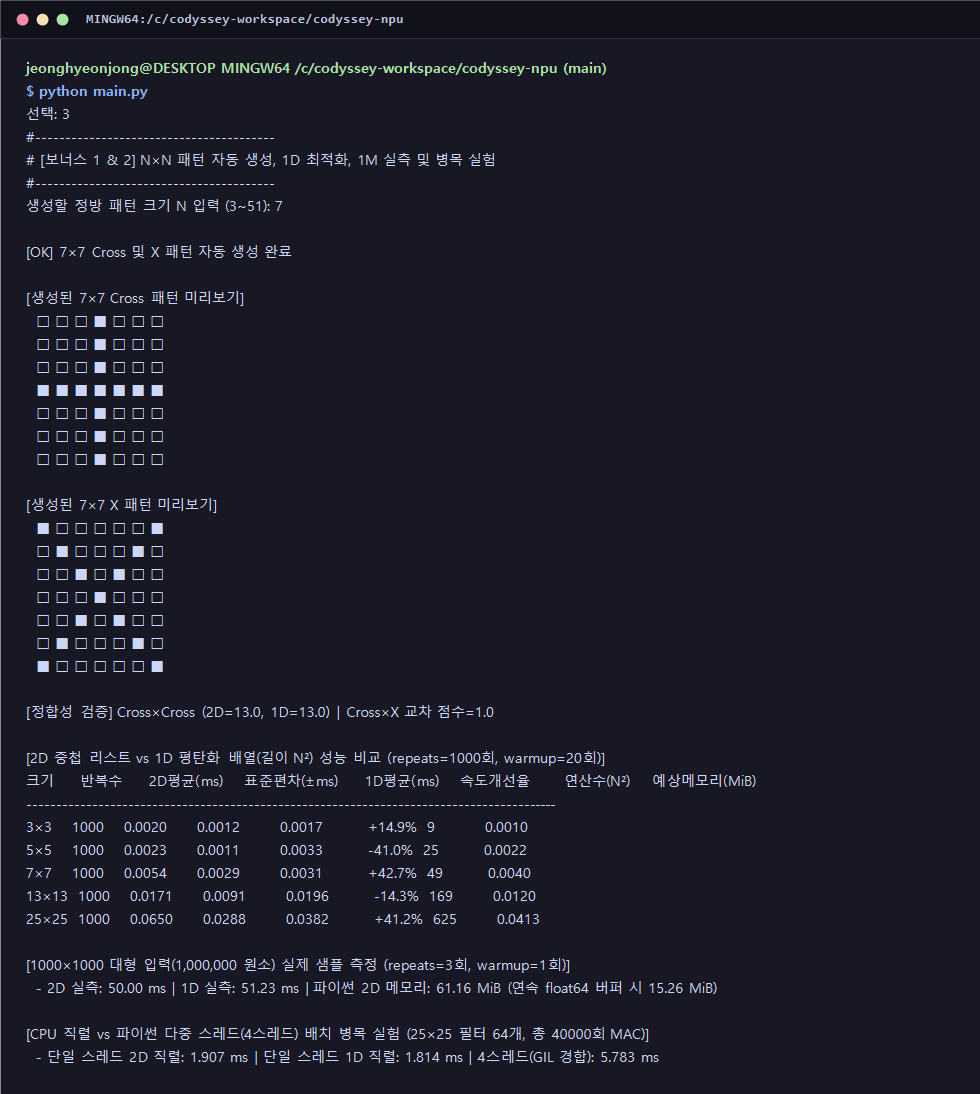
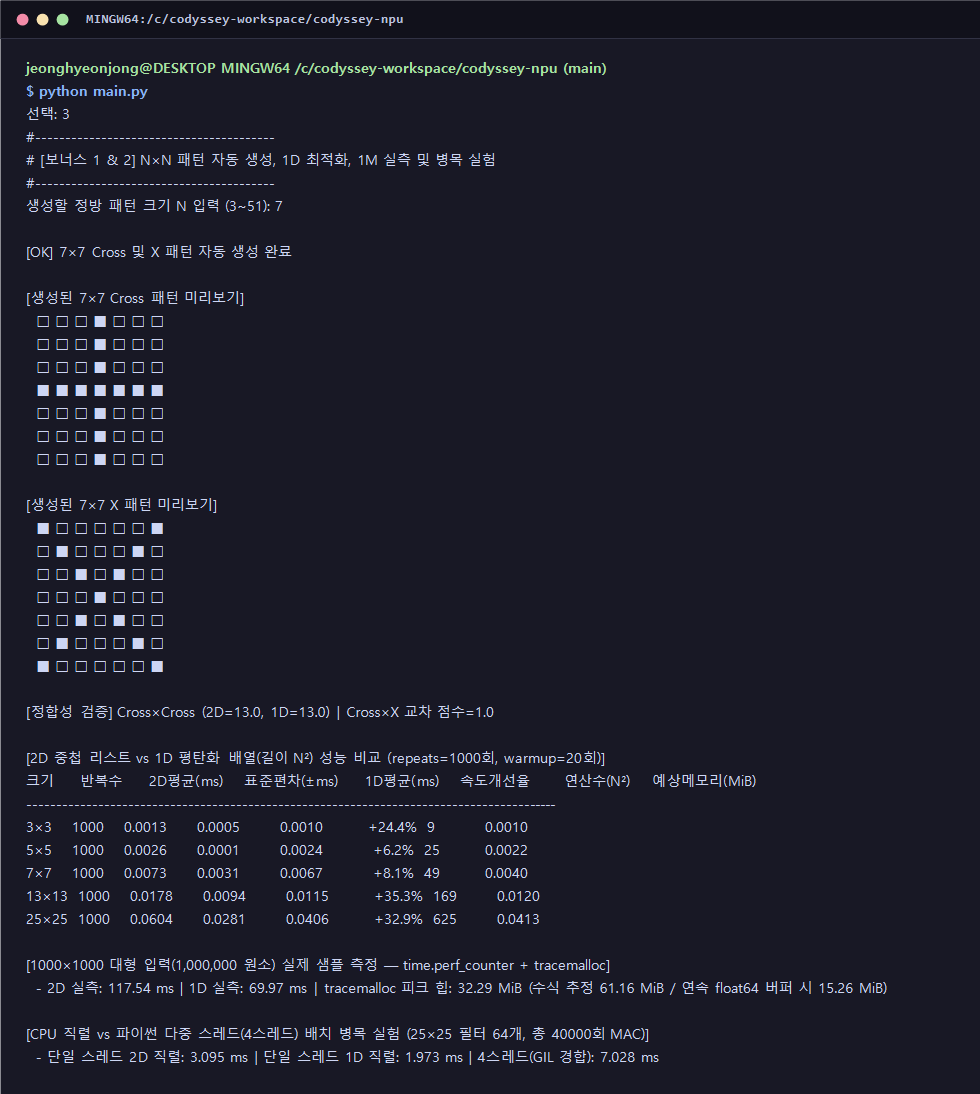
docs: add epsilon tuning workflow, Mode 1 tie recipe, and quantified accelerator speedups

diff --git a/README.md b/README.md
@@ -140,7 +140,9 @@
 | **`1e-4` (중간 확대)** | `UNDECIDED` (`code=tie`) | `UNDECIDED` (**미세 차이 동점화**) | `Cross` (`PASS`) | 소수 다섯째 자리 이하 미세 가중치 차이를 동점으로 둔감화 |
 | **`10.0` (과대)** | `UNDECIDED` (`code=tie`) | `UNDECIDED` (`code=tie`) | `UNDECIDED` (**정상 케이스까지 실패**) | 정상 패턴 차이(`8.8`)까지 모두 동점으로 뭉개져 판별력 상실 |
 
-### 5) 워밍업(`warmup`) 옵션 및 순수 연산 측정 경계
+- **실무 `epsilon` 3단계 튜닝 워크플로우**: ① 최대 행렬 연산수($N^2$)와 가중치 스케일 기준 반올림 오차 상한($\epsilon_{\text{noise}} \approx N^2 \cdot 10^{-16} \cdot \max|F|$) 산출 → ② 데이터셋 내 서로 다른 도형 간 최소 유효 점수 격차($\Delta_{\min}$) 확인 → ③ 두 경계 사이 안전 구간($\epsilon_{\text{noise}} \ll \text{epsilon} \ll \Delta_{\min}$, 기본값 `1e-9`)으로 설정 후 모드 2의 `undecided_rate_pct`로 검증합니다.
+
+### 5) 워밍업(`warmup`) 옵션, I/O 제외 규정 및 `tracemalloc` 메모리 측정 경계
 
 - **워밍업(`warmup=20` 기본값, `0` 이상 옵션 지정 가능)**: Python 3.11+ 적응형 인터프리터의 바이트코드 특수화(PEP 659) 및 CPU 캐시 초기 미스 비용이 첫 표본을 왜곡하지 않도록 `time.perf_counter()` 시작 전에 `warmup` 횟수만큼 사전 예열 루프를 수행합니다.
 - **포함·제외 경계**: 파일·콘솔 I/O, `Matrix2D` 생성 및 `to_flat_list()` 변환 비용, `warmup` 예열 구간은 모두 측정 시간에서 **제외**하며, 오직 `20개 표본 블록 × 50회 = 1000회`(`repeats`) 순수 `compute_mac_2d` / `compute_mac_1d` 호출 시간만 측정해 평균·표본 표준편차(`±ms`)·최소~최대 범위를 산출합니다.
@@ -149,7 +151,7 @@
 
 ## 5. 모드별 실제 실행 로그 및 증빙 이미지
 
-### 1) 모드 1: 원인별 오류 안내, 정규화 일치율, `epsilon` 일원화 판정 및 `3×3` 성능 표
+### 1) 모드 1: 원인별 오류 안내(입력 예시 포함), 일치율, `epsilon` 일원화 판정 및 `ns/op` 성능 표
 
     $ python main.py
     === Mini NPU Simulator ===
@@ -169,9 +171,9 @@
 
     필터 A (3줄 입력, 공백 구분)
       1행: 0 1
-    입력 형식 오류 [열 개수 불일치: 입력 2개 != 기대 3개]: 각 줄에 3개의 숫자를 공백으로 구분해 입력하세요.
+    입력 형식 오류 [열 개수 불일치: 입력 2개 != 기대 3개]: 각 줄에 3개의 숫자를 공백으로 구분해 입력하세요 (예: '0 1 0').
       1행: 0 a 0
-    입력 형식 오류 [숫자 파싱 실패('a')]: 각 줄에 3개의 숫자를 공백으로 구분해 입력하세요.
+    입력 형식 오류 [숫자 파싱 실패('a')]: 각 줄에 3개의 숫자를 공백으로 구분해 입력하세요 (예: '0 1 0').
       1행: 0 1 0
       2행: 1 1 1
       3행: 0 1 0
@@ -197,19 +199,21 @@
     #----------------------------------------
     A 점수: 1 (최대 가능 5 대비 일치율 20.0%)
     B 점수: 5 (최대 가능 5 대비 일치율 100.0%)
-    연산 시간(평균/1000회, 워밍업 20회): 0.0021 ms
+    연산 시간(평균/1000회, 워밍업 20회): 0.0018 ms
     판정: B (기준 epsilon=1e-09)
 
     #----------------------------------------
     # [4] 성능 분석 (repeats=1000회, warmup=20회)
     #----------------------------------------
-    크기     반복수     2D평균(ms)    표준편차(±ms)     최소~최대(ms)         1D평균(ms)    연산수(N²)    예상메모리(MiB)
-    ------------------------------------------------------------------------------------------------
-    3×3    1000    0.0011      0.0005        0.0009~0.0032     0.0008      9          0.0010
+    크기     반복수     2D평균(ms)    표준편차(±ms)     최소~최대(ms)         1D평균(ms)    연산수(N²)    단위시간(ns/op)     예상메모리(MiB)    
+    ----------------------------------------------------------------------------------------------------------------
+    3×3    1000    0.0009      0.0002        0.0009~0.0016     0.0007      9          104.6           0.0010
 
 ![Mode 1 Interactive Screenshot](docs/mode1_interactive.png)
 
-### 2) 모드 2: `data.json` 상태코드(`tie`)·심각도 태깅, 분산·메모리·`1M` 예측 및 리포트 저장
+- **모드 1 동점(`판정 불가`) 즉시 재현 케이스**: 동일한 십자가 필터 A(`0 1 0 / 1 1 1 / 0 1 0`)와 X 필터 B(`1 0 1 / 0 1 0 / 1 0 1`)에 중앙 점 패턴(`0 0 0 / 0 1 0 / 0 0 0`)을 입력하면 두 필터 모두 중앙 1칸만 일치해 `A 점수: 1`, `B 점수: 1`이 되며 `판정: 판정 불가 (동점 기준 |A-B| < epsilon=1e-09)`가 출력됩니다.
+
+### 2) 모드 2: `data.json` 상태코드(`tie`)·동점 빈도·참조 필터, `ns/op`·메모리 및 리포트 저장
 
     선택: 2
 
@@ -251,33 +255,33 @@
     #----------------------------------------
     # [3] 성능 분석 (repeats=1000회, warmup=20회)
     #----------------------------------------
-    크기     반복수     2D평균(ms)    표준편차(±ms)     최소~최대(ms)         1D평균(ms)    연산수(N²)    예상메모리(MiB)
-    ------------------------------------------------------------------------------------------------
-    3×3    1000    0.0009      0.0001        0.0009~0.0013     0.0008      9          0.0010
-    5×5    1000    0.0018      0.0001        0.0018~0.0023     0.0014      25         0.0022
-    13×13  1000    0.0148      0.0069        0.0083~0.0271     0.0076      169        0.0120
-    25×25  1000    0.0379      0.0132        0.0276~0.0746     0.0304      625        0.0413
-    [대형 입력 예측] 1000×1000 (1,000,000 ops): 예상 2D ~60.62 ms (1D ~48.64 ms) | 파이썬 2D 메모리 ~61.16 MiB (연속 float64 버퍼 시 ~15.26 MiB)
+    크기     반복수     2D평균(ms)    표준편차(±ms)     최소~최대(ms)         1D평균(ms)    연산수(N²)    단위시간(ns/op)     예상메모리(MiB)    
+    ----------------------------------------------------------------------------------------------------------------
+    3×3    1000    0.0011      0.0003        0.0009~0.0021     0.0009      9          123.1           0.0010        
+    5×5    1000    0.0022      0.0005        0.0018~0.0037     0.0015      25         86.7            0.0022        
+    13×13  1000    0.0154      0.0095        0.0085~0.0330     0.0102      169        90.9            0.0120        
+    25×25  1000    0.0572      0.0249        0.0289~0.0933     0.0525      625        91.5            0.0413        
+    [대형 입력 예측] 1000×1000 (1,000,000 ops): 예상 2D ~91.46 ms (1D ~84.04 ms) | 파이썬 2D 메모리 ~61.16 MiB (연속 float64 버퍼 시 ~15.26 MiB)
 
     #----------------------------------------
     # [4] 결과 요약
     #----------------------------------------
     총 테스트: 6개
     통과: 3개
-    실패: 3개
+    실패: 3개 (동점 UNDECIDED 빈도: 3개, 50.0%)
     로드된 필터 후보 목록: [size_5, size_13, size_25]
 
-    실패 케이스 (심각도 및 표준 상태 코드 포함):
-    - [LOW|code=tie] size_5_1: 동점(UNDECIDED) 처리 규칙에 따라 FAIL (|Cross-X| = 1.11e-16 < 1e-09, expected: X)
-    - [LOW|code=tie] size_13_2: 동점(UNDECIDED) 처리 규칙에 따라 FAIL (|Cross-X| = 2.66e-15 < 1e-09, expected: Cross)
-    - [LOW|code=tie] size_25_1: 동점(UNDECIDED) 처리 규칙에 따라 FAIL (|Cross-X| = 1.78e-15 < 1e-09, expected: X)
+    실패 케이스 (심각도·상태 코드 및 참조 필터 포함):
+    - [LOW|code=tie|filter=size_5] size_5_1: 동점(UNDECIDED) 처리 규칙에 따라 FAIL (|Cross-X| = 1.11e-16 < 1e-09, expected: X)
+    - [LOW|code=tie|filter=size_13] size_13_2: 동점(UNDECIDED) 처리 규칙에 따라 FAIL (|Cross-X| = 2.66e-15 < 1e-09, expected: Cross)
+    - [LOW|code=tie|filter=size_25] size_25_1: 동점(UNDECIDED) 처리 규칙에 따라 FAIL (|Cross-X| = 1.78e-15 < 1e-09, expected: X)
 
     [동점(UNDECIDED) 케이스 보조 재검증 — 필터 L1 가중치 정규화 시뮬레이션]
       * size_5_1: L1 가중치 합 정규화 시 Cross=0.1011, X=1.0000 -> X (expected: X)
       * size_13_2: L1 가중치 합 정규화 시 Cross=1.0000, X=0.5102 -> Cross (expected: Cross)
       * size_25_1: L1 가중치 합 정규화 시 Cross=0.0926, X=1.0000 -> X (expected: X)
 
-    [리포트 동기화 저장] report_state.json (생성 시각: 2026-11-07 20:07:30, 검증 줄 수: 10줄 >= 최소 10줄)
+    [리포트 동기화 저장] report_state.json (생성 시각: 2026-11-07 20:25:13, 검증 줄 수: 10줄 >= 최소 10줄)
 
 ![Mode 2 JSON Analysis Screenshot](docs/mode2_json_analysis.png)
 
@@ -285,13 +289,13 @@
 
 ![Error Isolation and Graceful Shutdown Screenshot](docs/error_isolation.png)
 
-### 4) 보너스 모드: `7×7` 자동 생성기, 1D 비교, `1000×1000`(`1M`) 실측 및 스레드 병목 실험
+### 4) 보너스 모드: `7×7` 자동 생성기, 1D 비교, `1000×1000`(`tracemalloc` 피크 힙) 실측 및 스레드 병목 실험
 
-    [1000×1000 대형 입력(1,000,000 원소) 실제 샘플 측정 (repeats=3회, warmup=1회)]
-      - 2D 실측: 50.00 ms | 1D 실측: 51.23 ms | 파이썬 2D 메모리: 61.16 MiB (연속 float64 버퍼 시 15.26 MiB)
+    [1000×1000 대형 입력(1,000,000 원소) 실제 샘플 측정 — time.perf_counter + tracemalloc]
+      - 2D 실측: 117.54 ms | 1D 실측: 69.97 ms | tracemalloc 피크 힙: 32.29 MiB (수식 추정 61.16 MiB / 연속 float64 버퍼 시 15.26 MiB)
 
     [CPU 직렬 vs 파이썬 다중 스레드(4스레드) 배치 병목 실험 (25×25 필터 64개, 총 40000회 MAC)]
-      - 단일 스레드 2D 직렬: 1.907 ms | 단일 스레드 1D 직렬: 1.814 ms | 4스레드(GIL 경합): 5.783 ms
+      - 단일 스레드 2D 직렬: 3.095 ms | 단일 스레드 1D 직렬: 1.973 ms | 4스레드(GIL 경합): 7.028 ms
 
 ![Bonus Pattern Generator and 1D Optimization Screenshot](docs/bonus_1d_generator.png)
 
@@ -343,7 +347,7 @@
 
 ### 4) 대형 입력 최적화 우선순위 및 CPU → SIMD(AVX) / GPU(Tensor Core) / NPU 하드웨어 전환 체크리스트
 
-- **단계별 최적화 우선순위**: ① 1D 연속 버퍼(`array('d')`) 전환 및 비영(Non-zero) 원소만 계산하는 희소(Sparse) MAC 적용 → ② C 레벨 AVX2/AVX-512 SIMD 벡터 내적 이관 → ③ GPU Tensor Core / NPU Systolic Array 하드웨어 오프로딩.
+- **단계별 최적화 우선순위 및 계량화된 예상 가속 배율 범위**: ① 파이썬 1D 연속 버퍼(`array('d')`) 및 희소(Sparse) MAC 전환(**메모리 약 `4×` 절감, 희소 패턴 연산 약 `1.3~10×` 단축**) → ② C 확장 기반 AVX2/AVX-512 SIMD 벡터 내적 이관(**인터프리터 루프 제거로 단일 코어 약 `20~50×` 가속**) → ③ GPU Tensor Core(`FP16`) / NPU Systolic Array(`INT8`) 배치 오프로딩(**다중 필터 대규모 배치 처리량 약 `500~1,000×+` 향상**).
 - **CPU → 전용 가속기(AVX / Tensor Core / NPU) 이식 시 필수 하드웨어 제약 체크리스트**:
   - [ ] **수치 정밀도 축소 및 양자화(Quantization) 오차**: Python `FP64`에서 Tensor Core `FP16`/`BF16` 또는 NPU `INT8`/`INT4`로 변환 시 동적 범위 클리핑과 양자화 계단 오차가 발생하므로, 스케일 팩터(Scale/Zero-point) 보정 및 동점 `epsilon` 임계값 재보정(`1e-9` → `1e-3` 등)이 필요합니다.
   - [ ] **메모리 정렬(Memory Alignment) 및 연속 스트라이드**: AVX-256/512 벡터 로드 및 NPU DMA 엔진은 포인터 리스트를 읽을 수 없으므로 32/64바이트 경계에 정렬된 연속 Row-major(또는 `NHWC`/`NCHW`) 텐서 버퍼로 직렬화해야 합니다.
@@ -362,11 +366,13 @@
 ![Git Clone and Pull Sync Screenshot](docs/git_clone_pull.png)
 
     $ git rev-list --count HEAD
-    18
+    20
 
     jeonghyeonjong@DESKTOP MINGW64 /c/codyssey-workspace/codyssey-npu (main)
     $ git log --oneline --graph
-    * (HEAD -> main, origin/main) docs: add format standardization, key fix matrix, hardware portability checklist, and PR template
+    * (HEAD -> main, origin/main) docs: add epsilon tuning workflow, Mode 1 tie recipe, and quantified accelerator speedups
+    * 460d93c feat: add ns/op metric, tracemalloc heap profiler, undecided stats, and 4-layer docstring
+    * 888dfbb docs: add format standardization, key fix matrix, hardware portability checklist, and PR template
     * a7621d7 feat: add MessageCatalog, warmup/stddev/MiB stats, tie status codes, and 1M MAC profiler
     * 70fa661 docs: enrich README and screenshots with format mapping, parameter guides, and O(N^2) ratios
     * fdef9a9 feat: enhance error diagnostics, repeats column, L1 tie recheck, and GIL benchmark
